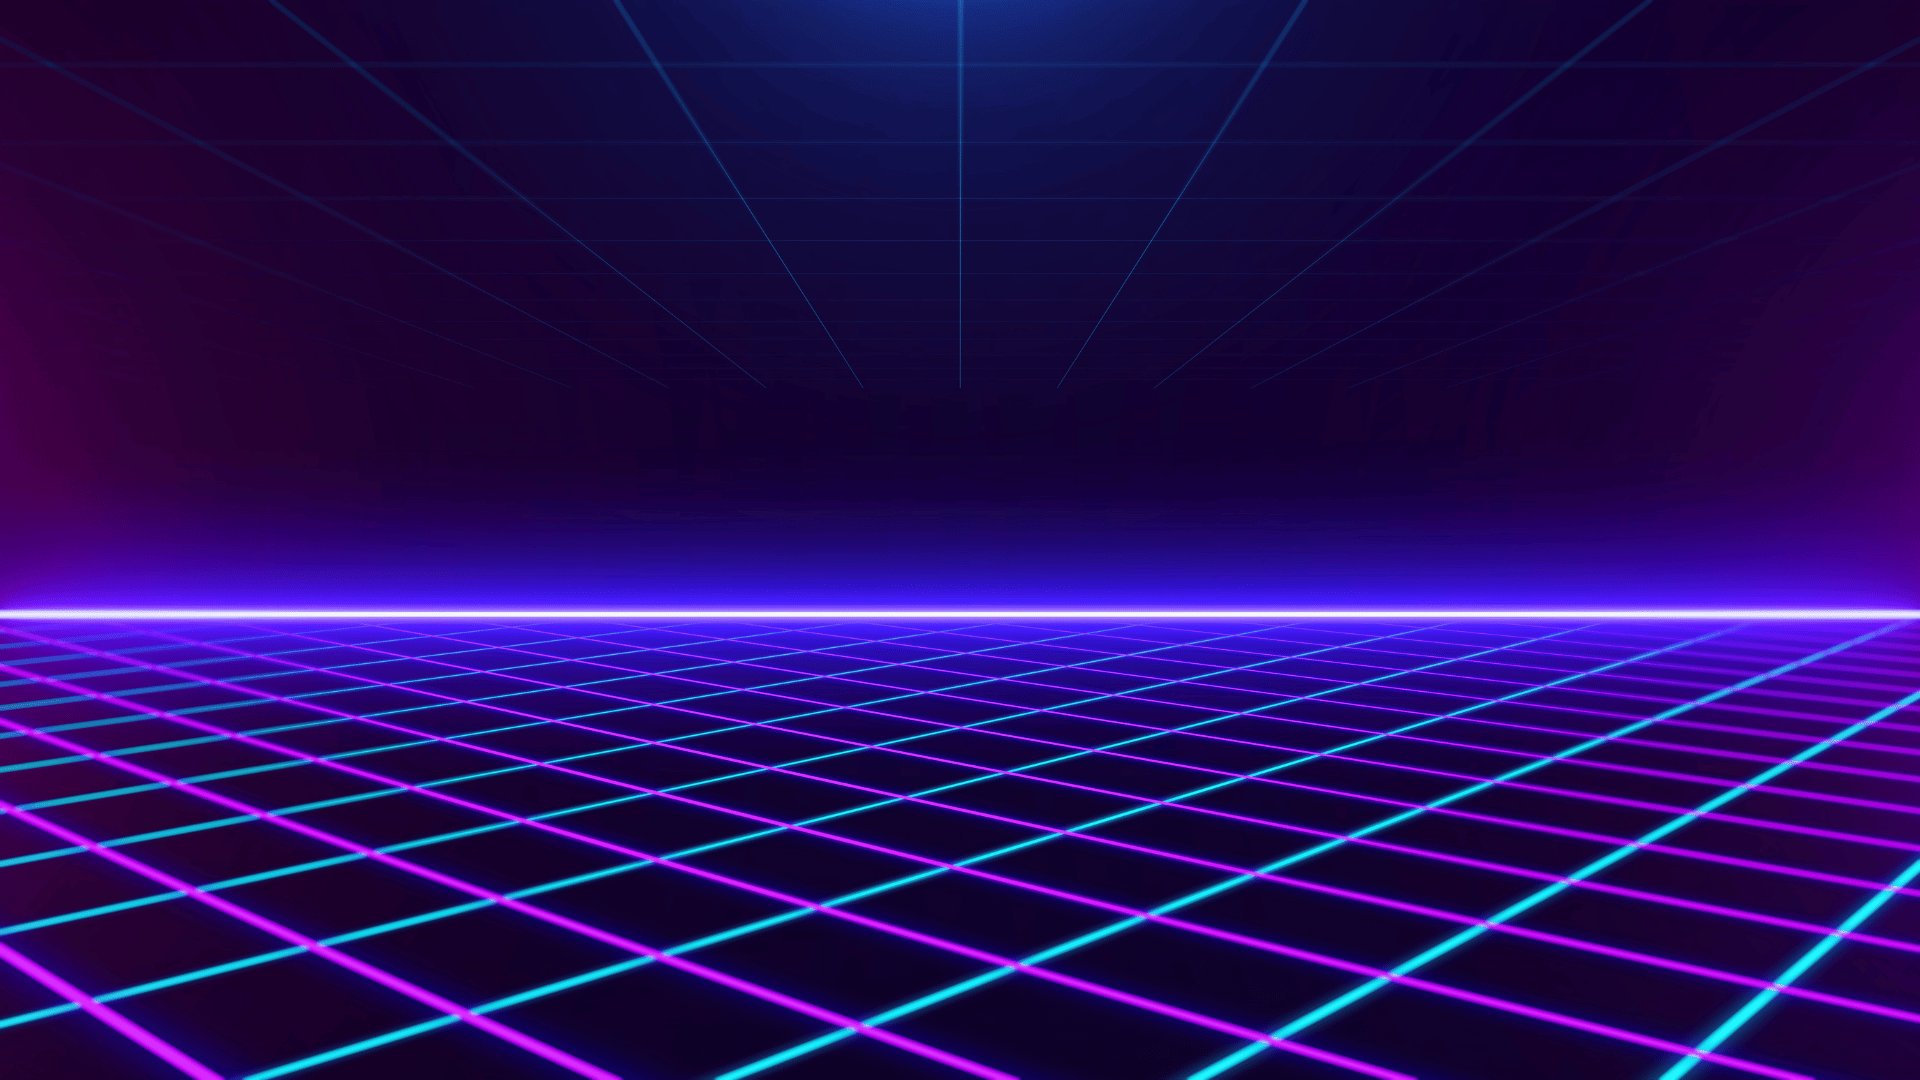
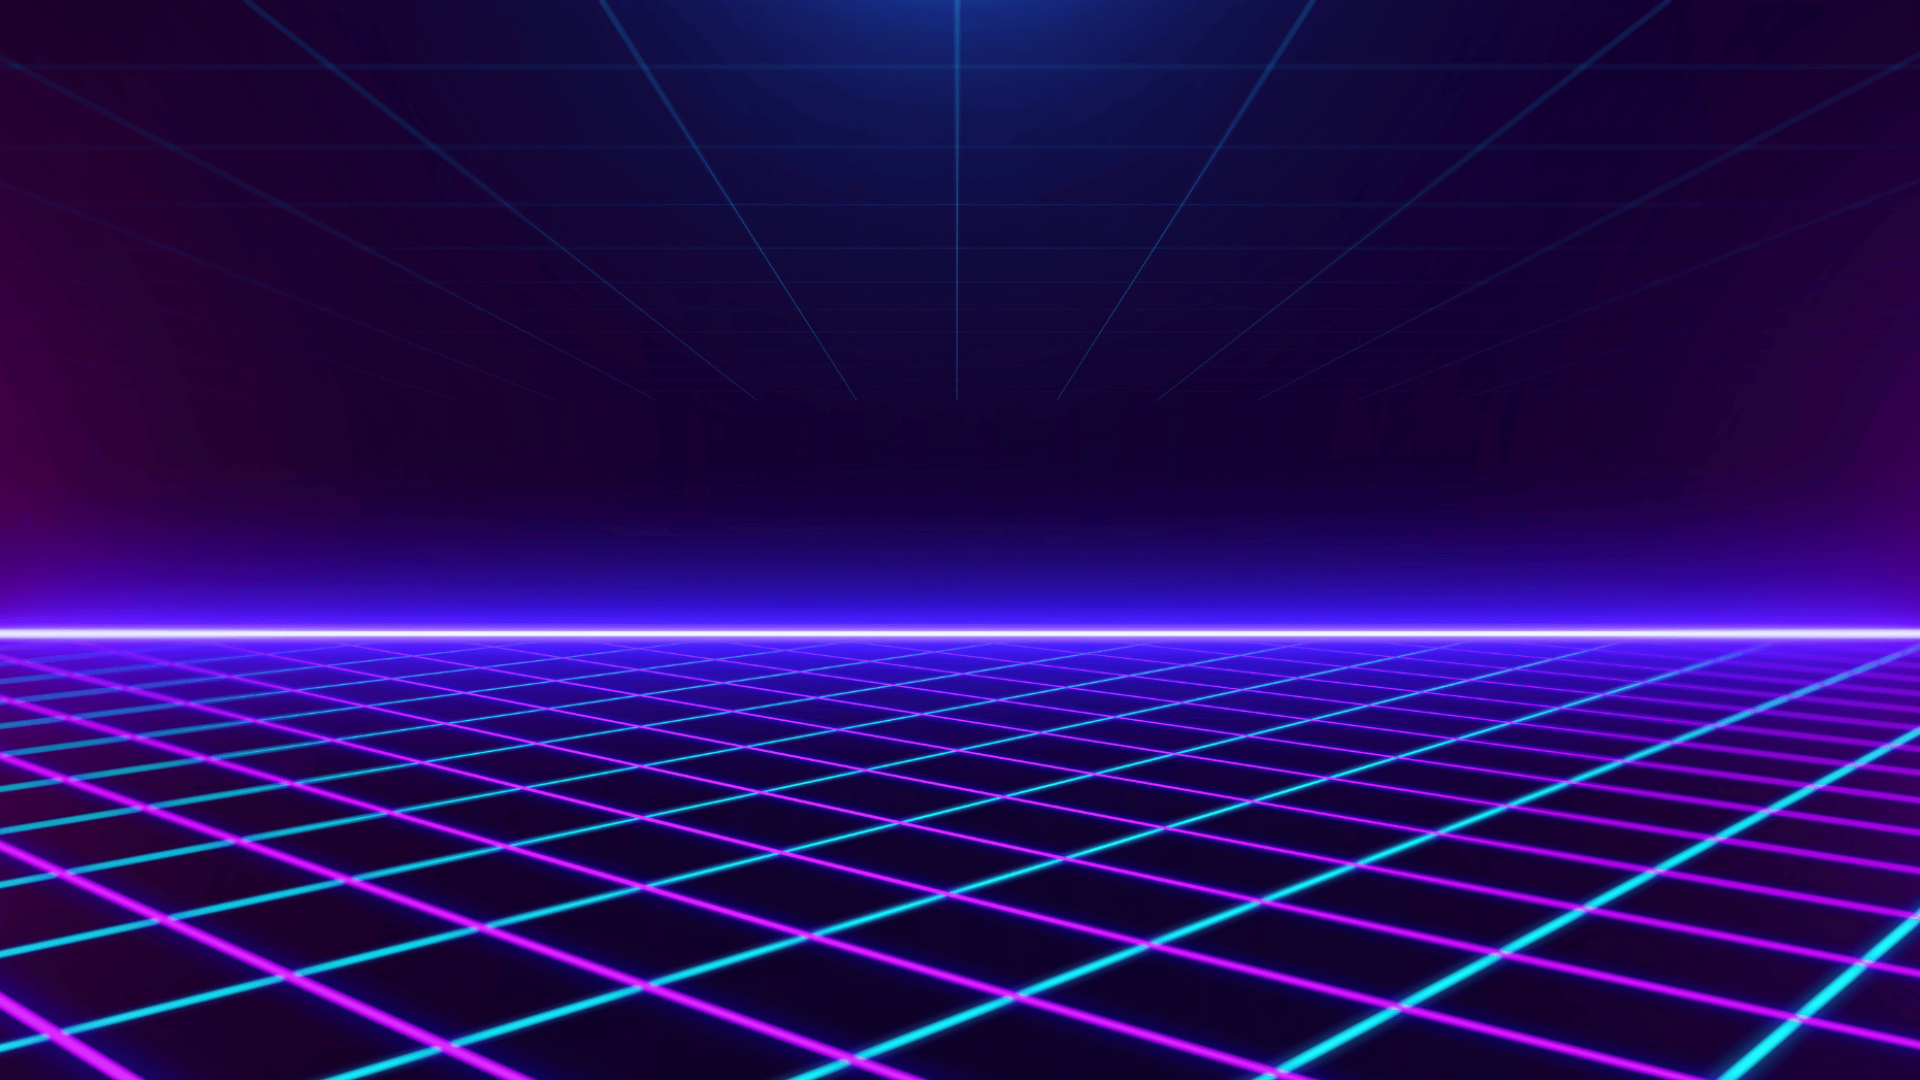
change wallpaper

diff --git a/public/onlyfans/index.html b/public/onlyfans/index.html
@@ -63,13 +63,13 @@
   <meta property="og:title" content="OnlyFans" />
 <meta property="og:description" content="KilobyteKeith&#39;s OnlyFans" />
 <meta property="og:type" content="article" />
-<meta property="og:url" content="https://kilobytekeith.com/onlyfans/" /><meta property="og:image" content="https://kilobytekeith.com/onlyfans/feature-wallpaper.png"/><meta property="article:section" content="" />
+<meta property="og:url" content="https://kilobytekeith.com/onlyfans/" /><meta property="og:image" content="https://kilobytekeith.com/onlyfans/feature-kbk-wallpaper.png"/><meta property="article:section" content="" />
 
 
 
 
   <meta name="twitter:card" content="summary_large_image"/>
-<meta name="twitter:image" content="https://kilobytekeith.com/onlyfans/feature-wallpaper.png"/>
+<meta name="twitter:image" content="https://kilobytekeith.com/onlyfans/feature-kbk-wallpaper.png"/>
 <meta name="twitter:title" content="OnlyFans"/>
 <meta name="twitter:description" content="KilobyteKeith&#39;s OnlyFans"/>
 
@@ -508,7 +508,7 @@
 
     
     <div class="fixed inset-x-0 top-0 h-[800px] single_hero_background nozoom"
-    style="background-image:url(/onlyfans/feature-wallpaper_hu2e7e736588f4df996f8b713bc519ada5_455624_1200x0_resize_box_3.png);">
+    style="background-image:url(/onlyfans/feature-kbk-wallpaper_huf956bbe3189fea24ec2e010d0f5cdb47_939437_1200x0_resize_box_3.png);">
     
 
 

diff --git a/public/index.html b/public/index.html
@@ -604,14 +604,14 @@
                         </div>
                         
                     </div>
-                    <section class="prose dark:prose-invert"><p>For business inquiries: <a href="mailto:KilobyteKeith@gmail.com"  >
-    KilobyteKeith@gmail.com</a></p>
-<script defer type="module" src="https://unpkg.com/@zachleat/snow-fall@1.0.1/snow-fall.js"></script>
-<script type="module" defer>
-const snow = document.createElement('snow-fall');
-document.body.prepend(snow)
-</script>
+                    <section class="prose dark:prose-invert"><p>For business inquiries: 
 
+  <span class="relative inline-block align-text-bottom icon">
+    <svg xmlns="http://www.w3.org/2000/svg" viewBox="0 0 512 512"><path fill="currentColor" d="M48 64C21.5 64 0 85.5 0 112c0 15.1 7.1 29.3 19.2 38.4L236.8 313.6c11.4 8.5 27 8.5 38.4 0L492.8 150.4c12.1-9.1 19.2-23.3 19.2-38.4c0-26.5-21.5-48-48-48H48zM0 176V384c0 35.3 28.7 64 64 64H448c35.3 0 64-28.7 64-64V176L294.4 339.2c-22.8 17.1-54 17.1-76.8 0L0 176z"/></svg>
+  </span>
+
+ <a href="mailto:KilobyteKeith@gmail.com"  >
+    KilobyteKeith@gmail.com</a></p>
 </section>
                 </div>
             </div>

diff --git a/public/updates/index.html b/public/updates/index.html
@@ -507,7 +507,7 @@
 
     
     <div class="fixed inset-x-0 top-0 h-[800px] single_hero_background nozoom"
-    style="background-image:url(/img/wallpaper_hu2e7e736588f4df996f8b713bc519ada5_455624_1200x0_resize_box_3.png);">
+    style="background-image:url(/img/wallpaper_hu722dfa1728286bb85208c685a085c0af_1714646_1200x0_resize_box_3.png);">
     
 
 

diff --git a/content/_index.md b/content/_index.md
@@ -1,3 +1,1 @@
 For business inquiries: KilobyteKeith@gmail.com
-
-{{< snowfall >}}
